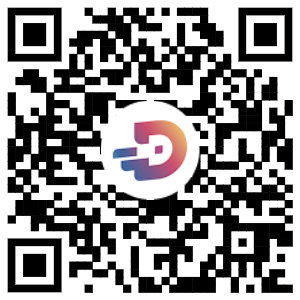
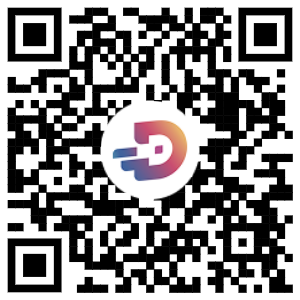
Update QR code images and modify download links in RegistrationNotice component

diff --git a/frontend/register/src/components/RegistrationNotice.tsx b/frontend/register/src/components/RegistrationNotice.tsx
@@ -25,7 +25,7 @@ export function RegistrationNotice() {
                 className="w-32 h-32 object-contain"
               />
               <a
-                href="https://www.wallet.gov.tw/apply/beta_app_download_page.html"
+                href="https://appgroup.mitake.com.tw/NewServices/controller/AppFileDownload?key=jDMGQs71gvisJ9ox70AI3Q"
                 target="_blank"
                 rel="noopener noreferrer"
                 className="block"
@@ -47,7 +47,7 @@ export function RegistrationNotice() {
                 className="w-32 h-32 object-contain"
               />
               <a
-                href="https://testflight.apple.com/join/PssjD8qx"
+                href="itms-services://?action=download-manifest&url=https://appgroup.mitake.com.tw/NewServices/controller/AppFileDownload%3Fkey%3DRlsaF3VjLm5srtR_iRXJiA%26type%3DI"
                 target="_blank"
                 rel="noopener noreferrer"
                 className="block"
